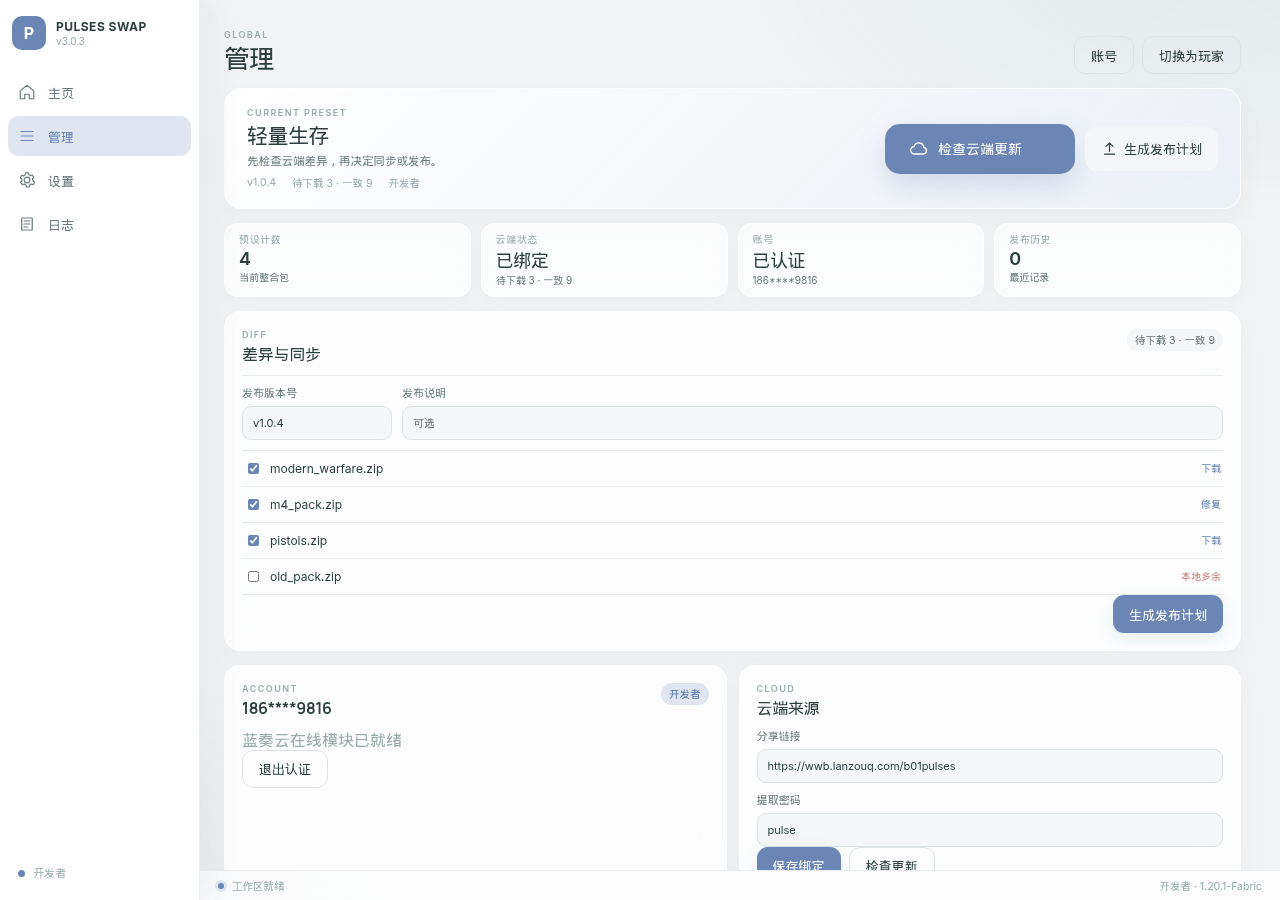
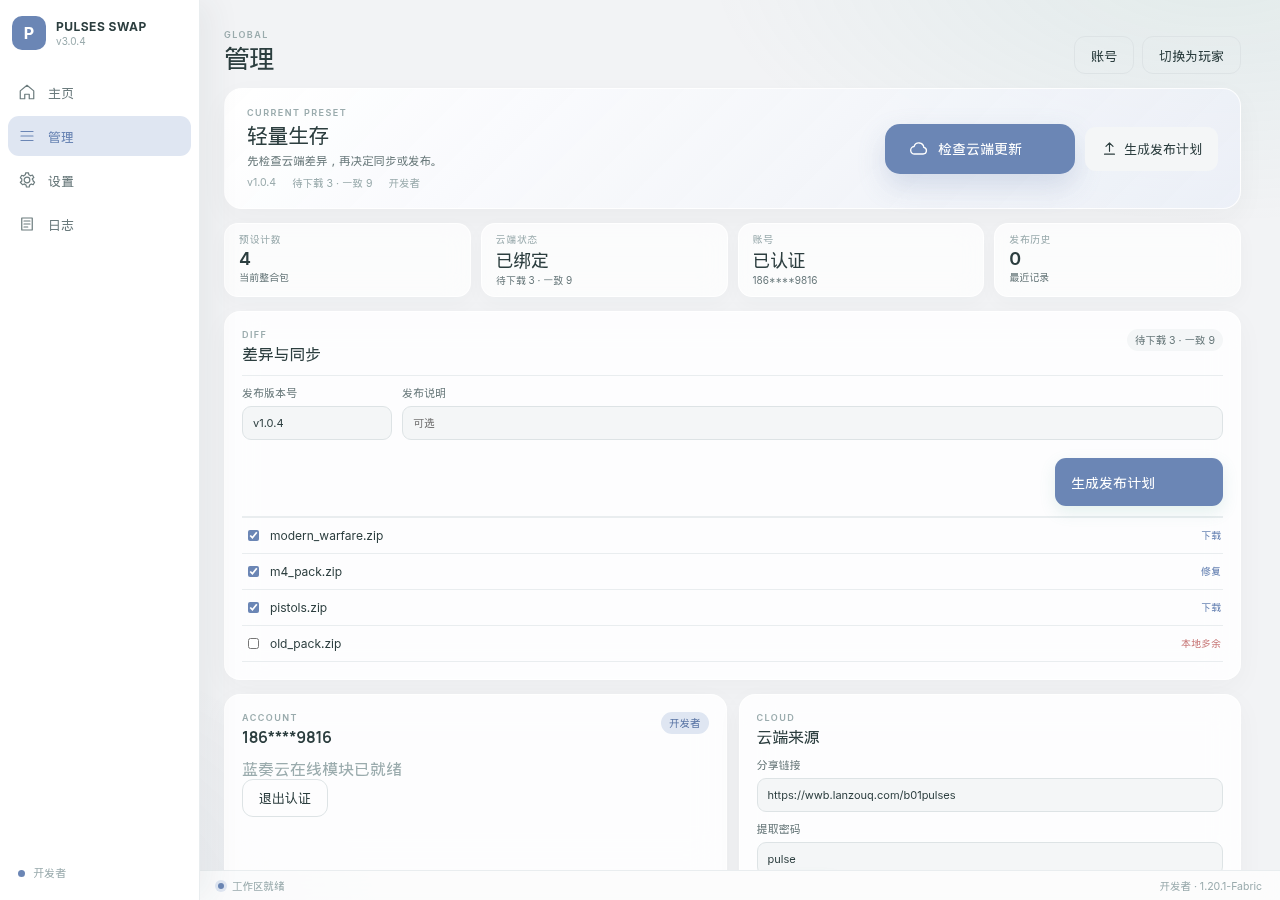
fix(3.0.4): 管理页主操作前置并补齐双身份截图

diff --git a/src/pulses_web/web/src/App.jsx b/src/pulses_web/web/src/App.jsx
@@ -375,6 +375,13 @@ function Manage({ snap, actions, busy }) {
             <label className="field"><span>发布版本号</span><input value={publishVersion} onChange={(e) => setPublishVersion(e.target.value)} placeholder={selected?.version || 'v1.0.0'} /></label>
             <label className="field"><span>发布说明</span><input value={publishNotes} onChange={(e) => setPublishNotes(e.target.value)} placeholder="可选" /></label>
           </div>}
+          <div className="plan-cta">
+            {snap.role === 'player'
+              ? <button className="btn primary plan-primary" disabled={!selected || !selectedPaths.size || busy} onClick={() => actions.sync(selected.name, [...selectedPaths])}>同步选中</button>
+              : snap.publish_ready
+              ? <button className="btn primary plan-primary" disabled={busy} onClick={() => actions.publish(selected.name, publishVersion || selected.version, publishNotes, [...selectedPaths])}>发布选中</button>
+              : <button className="btn primary plan-primary" disabled={busy || !selected} onClick={() => actions.publishPlan(selected.name)}>生成发布计划</button>}
+          </div>
           <div className="plan-list">
             <AnimatePresence mode="popLayout" initial={false}>
               {plan.items.map((item, i) => (
@@ -389,13 +396,6 @@ function Manage({ snap, actions, busy }) {
                 </motion.label>
               ))}
             </AnimatePresence>
-          </div>
-          <div className="button-row end">
-            {snap.role === 'player'
-              ? <button className="btn primary" disabled={!selected || !selectedPaths.size || busy} onClick={() => actions.sync(selected.name, [...selectedPaths])}>同步选中</button>
-              : snap.publish_ready
-              ? <button className="btn primary" disabled={busy} onClick={() => actions.publish(selected.name, publishVersion || selected.version, publishNotes, [...selectedPaths])}>发布选中</button>
-              : <button className="btn primary" disabled={busy || !selected} onClick={() => actions.publishPlan(selected.name)}>生成发布计划</button>}
           </div>
         </>}
       </section>

diff --git a/src/pulses_web/web/src/styles.css b/src/pulses_web/web/src/styles.css
@@ -550,3 +550,5 @@ h3 { font-size: 15px; font-weight: 600; }
   transition: background-color 420ms var(--ease-out), color 420ms var(--ease-out),
     box-shadow 420ms var(--ease-out);
 }
+.plan-cta { display: flex; justify-content: flex-end; padding: 8px 0 10px; border-bottom: 1px solid var(--divider); }
+.plan-cta .btn.plan-primary { height: 48px; min-width: 168px; font-size: 14px; }

diff --git a/src/pulses/core/paths.py b/src/pulses/core/paths.py
@@ -45,7 +45,7 @@ except ImportError:
 
 
 # ==================== 常量定义 ====================
-VERSION = "3.0.3"
+VERSION = "3.0.4"
 AUTHOR = "NimShade"
 PROJECT_NAME = "Pulses Swap"
 

diff --git a/docs/handover.md b/docs/handover.md
@@ -1,4 +1,4 @@
-# Pulses Swap 交接文档（v3.0.3 WebView）
+# Pulses Swap 交接文档（v3.0.4 WebView）
 
 > 给接手的人 / AI 看的：这个软件被拆成了哪些文件、每个文件干什么、
 > 数据怎么流动、改哪里、怎么跑测试、怎么打包。
@@ -12,7 +12,7 @@
 一键把某组枪包换进游戏的 `tacz` 目录；同时把预设发布到**蓝奏云**，
 玩家绑定分享链接后可以增量同步。
 
-- 版本：`3.0.3`（`src/pulses/core/paths.py` 里的 `VERSION`）
+- 版本：`3.0.4`（`src/pulses/core/paths.py` 里的 `VERSION`）
 - 入口：`src/main.py` → `pulses.ui.app.main()`
 - 依赖：`customtkinter` `tkinterdnd2` `watchdog` `Pillow`（见 `requirements.txt`）
 - 不依赖任何第三方网络库（HTTP 全用标准库 `urllib`）

diff --git a/docs/test-report.md b/docs/test-report.md
@@ -393,3 +393,8 @@
 
 - 首页主按钮尺寸、首屏位置、1140 横向边界、预设切换枪包滑入、身份浅色全窗幕布、DND drop 收起、Modal 焦点归还、关闭动画瞬时切页均有 Playwright 断言。
 - 202 个 Python 测试、`node test-ui.mjs` 通过；GitHub Actions `ui` job 与 Windows/Linux 构建联动。
+
+## 23. 3.0.4 管理页主操作前置
+
+- 玩家/开发者主操作按钮移到差异卡顶部，1280×900 下无需滚动即可看到“同步选中/发布选中”。
+- 黑白盒测试：202 个 Python 测试、`node test-ui.mjs` 通过；3.0.4 CI `ui`、Windows、Linux 全绿。

diff --git a/docs/changelog.md b/docs/changelog.md
@@ -1,5 +1,14 @@
 # 更新日志
 
+## v3.0.4（2026-10-30）
+
+### 管理页主操作
+- 玩家“同步选中”、开发者“发布选中/生成发布计划”从差异列表底部移到卡片顶部，打开管理页即可看到主操作，不需要先滚过整张差异表。
+- 管理页主操作按钮高度 48px；玩家/开发者截图与发布包一致。
+
+### 截图
+- 新增玩家端与开发者端的首页、管理页、设置页截图，以及浅色身份幕布截图。
+
 ## v3.0.3（2026-10-30）
 
 ### 主界面与操作层级

diff --git a/README.md b/README.md
@@ -1,6 +1,6 @@
 # Pulses Swap 3.0
 
-TACZ 枪包一键切换工具 · **PyWebView + React** 版 · v3.0.3
+TACZ 枪包一键切换工具 · **PyWebView + React** 版 · v3.0.4
 
 Pulses Swap 把 Minecraft 的 TACZ 枪包按「预设」分组：拖入整合包、选择预设、
 一键替换，也可以把预设发布到蓝奏云，让玩家增量同步。
